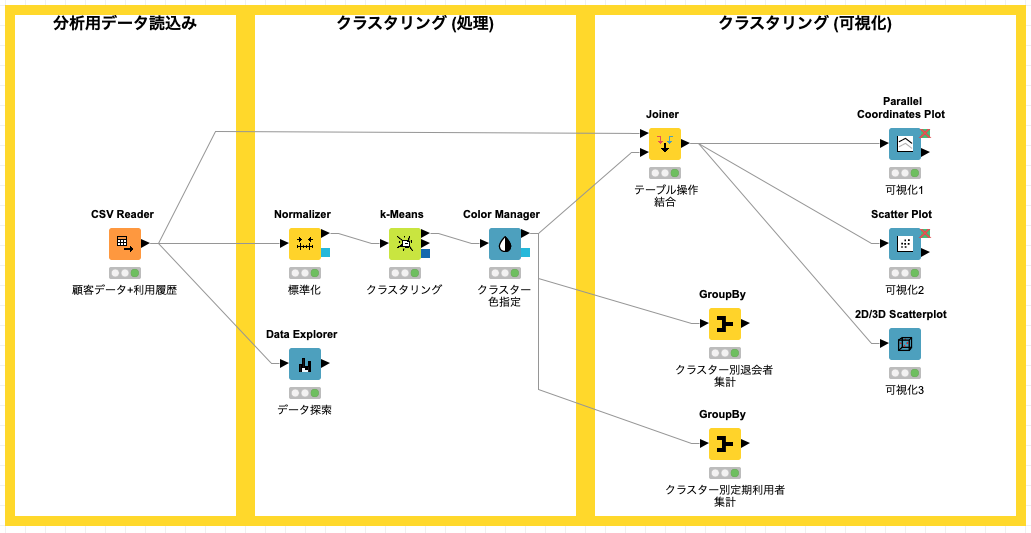
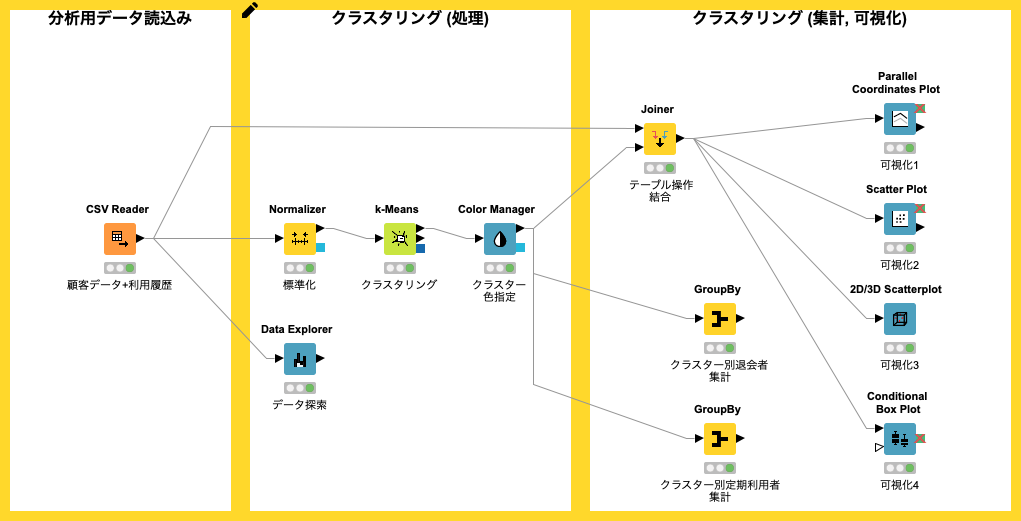
Modify src/data-science/knime/knime-1, knime-2, and knime-3

diff --git a/src/data-science/knime/knime-3.md b/src/data-science/knime/knime-3.md
@@ -1,16 +1,7 @@
----
-title: KNIME 入門編 / クラスタリング
-summary: KNIME 入門編 / クラスタリング
-authors:
-    - Yosuke Hara
-date: 2020-04-17
-some_url: https://lions-data.com/
----
-
 # KNIME 入門編 / クラスタリング
 
-* 作成日: 2020-04-17
-* 更新日: 2020-04-26
+* 初版作成日: 2020-04-17
+* 最終更新日: 2020-04-24
 
 今回は、すでにデータ整形が終わっている分析用データ *(トレーニングジム会員の利用履歴)* を使い 会員のクラスタリング *(クラスター分析)* を行い、それぞれのクラスターの行動の傾向を確認します。クラスタリングとは、異なる性質・特徴をもつものが混在する集合から似た性質・特徴を持つグループを作ることです。基本的なデータ解析手法としてデータマイニングでも頻繁に利用されている手法です。
 
@@ -292,7 +283,7 @@ some_url: https://lions-data.com/
 
 #### 3. Conditional Box Plot
 
-* Box Plot *(箱ひげ図)* を作成し、各クラスターの `membership_period (会員期間)` と `mean (平均利用回数/月)` のデータのばらつきを確認する
+* Box Plot *(箱ひげ図)* を作成し、各クラスターの `membership_period (会員期間)` と `mean (平均利用回数/月)` の**データのばらつき**を確認する
 * `Category column` に `Cluster (クラスター)` を指定、対象カラムに `membership_period (会員期間)` と `mean (平均利用回数/月)` を指定する
 
 *Fig. 可視化 / Conditional Box Plot / 設定*
@@ -310,7 +301,14 @@ some_url: https://lions-data.com/
 * 利用ノード: [Nodes / Views / JavaScript / Conditional Box Plot](https://nodepit.com/node/org.knime.dynamic.js.v30.DynamicJSNodeFactory%23Conditional%20Box%20Plot)
 
 
-## 利用ノード一覧
+## まとめ
+
+データ分析の初期の段階でクラスタリングを行いサンプルをグループ化することで、より直感的にデータの特徴をつかむことができました。この分析結果を参考にして、会員の利用回数の予測、退会予測 等をすることができます。
+
+また、データに不具合さえなければ、KNIMEには、既存のクラスタリングノード - K-Means があるので、短時間でクラスタリングを行うことができます。
+
+
+## Appendix / 利用ノード一覧
 
 * [IO / Read / CSV Reader](https://nodepit.com/node/org.knime.base.node.io.csvreader.CSVReaderNodeFactory)
 * [Nodes / KNIME Labs / JavaScript Views (Labs) / Data Explorer](https://nodepit.com/node/org.knime.base.node.stats.dataexplorer.DataExplorerNodeFactory)

diff --git a/src/data-science/knime/knime-1.md b/src/data-science/knime/knime-1.md
@@ -1,7 +1,7 @@
 # KNIME 入門編 / 前処理
 
-* 作成日: 2020-03-31
-* 更新日: 2020-04-11
+* 初版作成日: 2020-03-31
+* 最終更新日: 2020-04-11
 
 ビッグデータでは、大量のテキストデータ、数値データを扱います。数値データには、欠損値、異常値などを含む為、そのままデータ分析を進めても期待した結果・効果を得ることができません。データ分析では、データの誤り、漏れ、不足、矛盾を事前にチェックし、データを整える「前処理」という工程が必要とされています。今回は、顧客マスタと売上データの二つのデータの前処理を行います。その結果をCSV形式ファイルに保存し、次回の探索的データ分析 *(可視化含む)* に進みます。
 
@@ -399,7 +399,7 @@ replace(
 - 利用ノード: [Manipulation / Row / Transform / Concatenate](https://nodepit.com/node/org.knime.base.node.preproc.append.row.AppendedRowsNodeFactory)
 
 
-## 使用ノード一覧
+## Appendx / 利用ノード一覧
 
 |  名称 | アイコン  |  機能  |
 | :----: | :----: | :--- |
